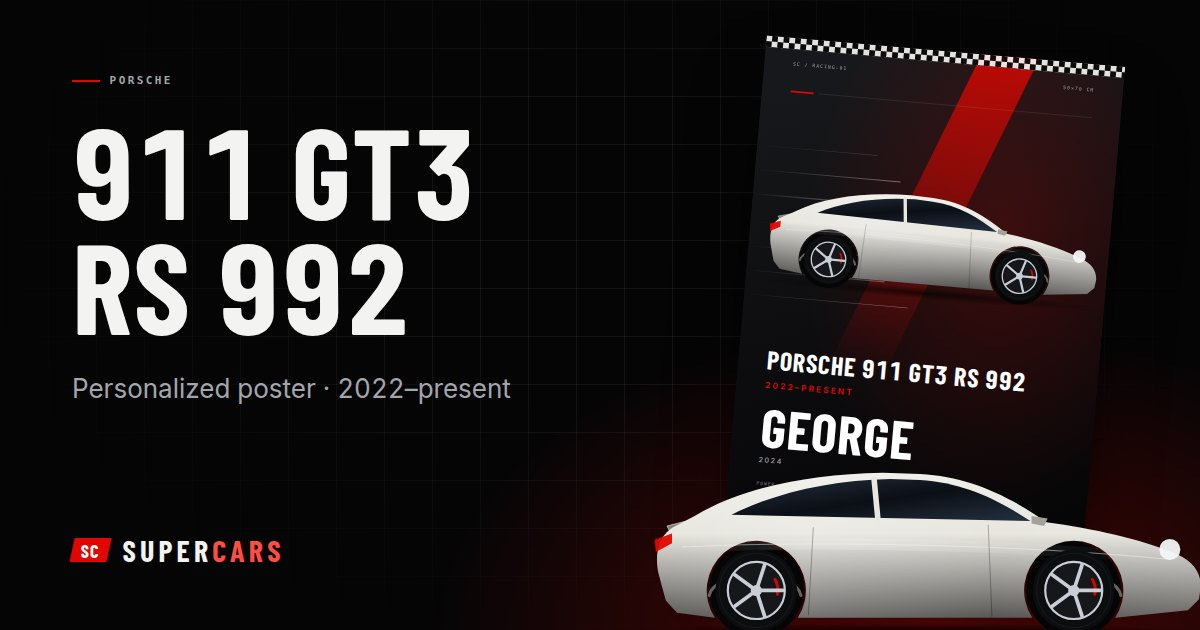
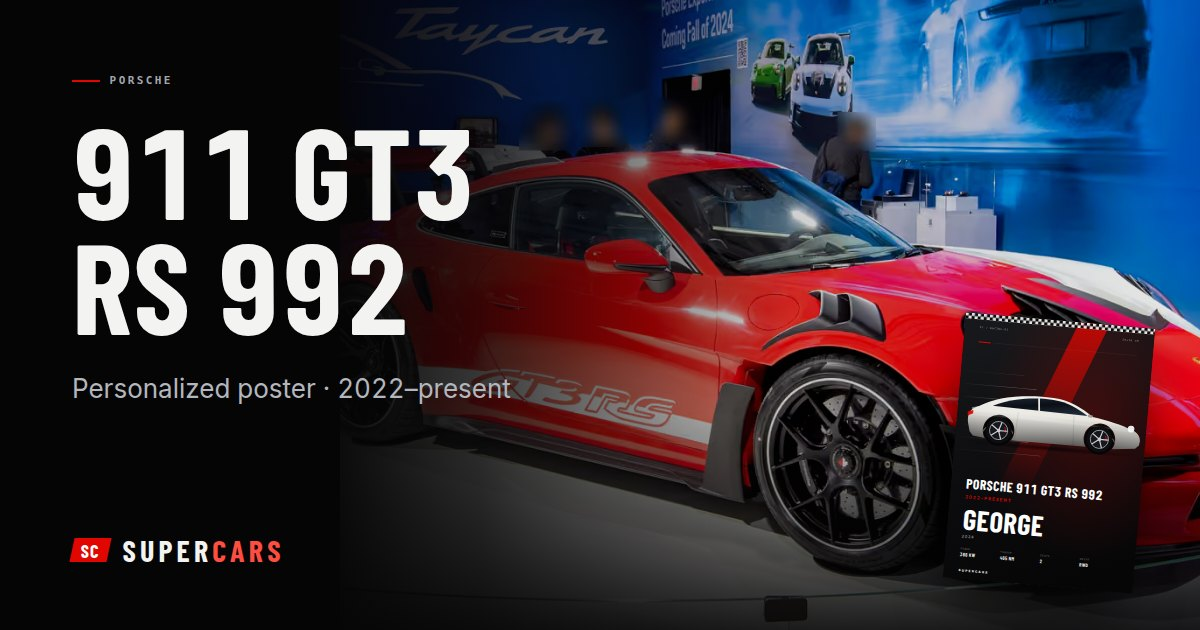
SuperCars: share images from the photos and a cache rule for /cars/*
- Open Graph images regenerated with the car photo (CC BY credit printed on them)
- generate-og --no-templates leaves the poster template previews untouched
- /cars/* static files get a one-week cache (names are not fingerprinted)

Claude-Session: https://claude.ai/code/session_01Y5xeqZSzBeaEcyTfuFvrQh

diff --git a/supercars/src/app/og-preview/[...key]/page.tsx b/supercars/src/app/og-preview/[...key]/page.tsx
@@ -1,4 +1,5 @@
 import { notFound } from "next/navigation";
+import { CarPhotoImage } from "@/components/cars/CarPhotoImage";
 import { PosterPreview } from "@/components/poster/PosterPreview";
 import { VehicleArt } from "@/components/poster/VehicleArt";
 import { getRepositories } from "@/server/repositories";
@@ -34,28 +35,51 @@ export default async function OgPreview({ params }: { params: Promise<{ key: str
     );
   }
 
-  const carEntry = kind === "car" && id ? await repos.cars.getEntryBySlug(id) : await repos.cars.getEntryBySlug("bmw-m3-g80");
+  const carEntry = kind === "car" && id ? await repos.cars.getEntryBySlug(id) : await repos.cars.getEntryBySlug("nissan-gt-r-r35");
   if (!carEntry) notFound();
+  const photo = carEntry.generation.photos[0];
   const copy = kind === "car" ? { eyebrow: carEntry.brand.name, title: `${carEntry.car.name} ${carEntry.generation.generation}`, sub: `Personalized poster · ${carEntry.generation.specs.years}` } : COPY[kind ?? "home"] ?? COPY.home!;
 
   return (
     <div id="og" style={{ position: "fixed", inset: 0, zIndex: 9999, width: 1200, height: 630, overflow: "hidden", background: "radial-gradient(ellipse 60% 70% at 78% 100%, rgba(225,6,0,0.34), transparent 70%), #050506" }}>
-      <div className="tech-grid" style={{ position: "absolute", inset: 0, opacity: 0.6 }} />
-      <div style={{ position: "absolute", left: 72, top: 64, right: 560 }}>
+      {photo ? (
+        <>
+          <div style={{ position: "absolute", top: 0, right: 0, bottom: 0, width: 860 }}>
+            <CarPhotoImage slug={carEntry.generation.slug} photo={photo} priority sizes="860px" className="photo-cinema" alt="" />
+          </div>
+          <div style={{ position: "absolute", inset: 0, background: "linear-gradient(90deg, #050506 0, #050506 26%, rgba(5,5,6,0.78) 40%, rgba(5,5,6,0.1) 66%, transparent 100%), linear-gradient(0deg, rgba(5,5,6,0.85) 0, transparent 34%)" }} />
+        </>
+      ) : (
+        <div className="tech-grid" style={{ position: "absolute", inset: 0, opacity: 0.6 }} />
+      )}
+      <div style={{ position: "absolute", left: 72, top: 64, right: photo ? 640 : 560 }}>
         <p className="eyebrow">{copy.eyebrow}</p>
         <h1 className="h-display" style={{ marginTop: 22, fontSize: copy.title.length > 16 ? 104 : 128, lineHeight: 0.9 }}>{copy.title}</h1>
-        <p style={{ marginTop: 26, fontSize: 26, color: "#a4a6ad", maxWidth: 520 }}>{copy.sub}</p>
+        <p style={{ marginTop: 26, fontSize: 26, color: "#b4b6bd", maxWidth: 520 }}>{copy.sub}</p>
       </div>
       <div style={{ position: "absolute", left: 72, bottom: 56, display: "flex", alignItems: "center", gap: 14 }}>
         <span className="logo-mark" aria-hidden="true"><span>SC</span></span>
         <span style={{ fontFamily: "var(--font-display)", fontWeight: 700, fontSize: 30, letterSpacing: "0.14em", textTransform: "uppercase" }}>Super<span style={{ color: "#ff4d40" }}>Cars</span></span>
       </div>
-      <div style={{ position: "absolute", right: 96, top: 50, width: 360, transform: "rotate(5deg)", boxShadow: "0 40px 80px -20px rgba(0,0,0,0.9)" }}>
-        <PosterPreview template={racing} vehicle={carEntry.generation.vehicle} customization={{ name: "GEORGE", year: "2024" }} vehicleName={carEntry.generation.displayName} specs={carEntry.generation.specs} sizeId="50x70" />
-      </div>
-      <div style={{ position: "absolute", right: -30, bottom: -14, width: 620 }}>
-        <VehicleArt vehicle={carEntry.generation.vehicle} shadowOpacity={0.9} />
-      </div>
+      {photo && photo.credit.licenseName.startsWith("CC BY") && (
+        <p style={{ position: "absolute", left: 72, bottom: 22, margin: 0, fontSize: 14, color: "rgba(255,255,255,0.62)" }}>
+          Photo: {photo.credit.author} · {photo.credit.licenseName} · Wikimedia Commons
+        </p>
+      )}
+      {photo ? (
+        <div style={{ position: "absolute", right: 56, bottom: 44, width: 190, transform: "rotate(5deg)", boxShadow: "0 30px 60px -16px rgba(0,0,0,0.95)" }}>
+          <PosterPreview template={racing} vehicle={carEntry.generation.vehicle} customization={{ name: "GEORGE", year: "2024" }} vehicleName={carEntry.generation.displayName} specs={carEntry.generation.specs} sizeId="50x70" />
+        </div>
+      ) : (
+        <>
+          <div style={{ position: "absolute", right: 96, top: 50, width: 360, transform: "rotate(5deg)", boxShadow: "0 40px 80px -20px rgba(0,0,0,0.9)" }}>
+            <PosterPreview template={racing} vehicle={carEntry.generation.vehicle} customization={{ name: "GEORGE", year: "2024" }} vehicleName={carEntry.generation.displayName} specs={carEntry.generation.specs} sizeId="50x70" />
+          </div>
+          <div style={{ position: "absolute", right: -30, bottom: -14, width: 620 }}>
+            <VehicleArt vehicle={carEntry.generation.vehicle} shadowOpacity={0.9} />
+          </div>
+        </>
+      )}
     </div>
   );
 }

diff --git a/supercars/src/config/security-headers.ts b/supercars/src/config/security-headers.ts
@@ -52,6 +52,8 @@ export function securityHeaders(isDev: boolean): HeaderRule[] {
 /** Cache policy for static assets served by Workers Assets (Next fingerprints everything under /_next/static). */
 export const assetCacheRules: readonly { readonly path: string; readonly value: string }[] = [
   { path: "/_next/static/*", value: "public, max-age=31536000, immutable" },
+  // Car photographs keep stable file names (not fingerprinted), so a week rather than "immutable".
+  { path: "/cars/*", value: "public, max-age=604800, stale-while-revalidate=86400" },
   { path: "/og/*", value: "public, max-age=86400" },
   { path: "/templates/*", value: "public, max-age=86400" },
 ];
